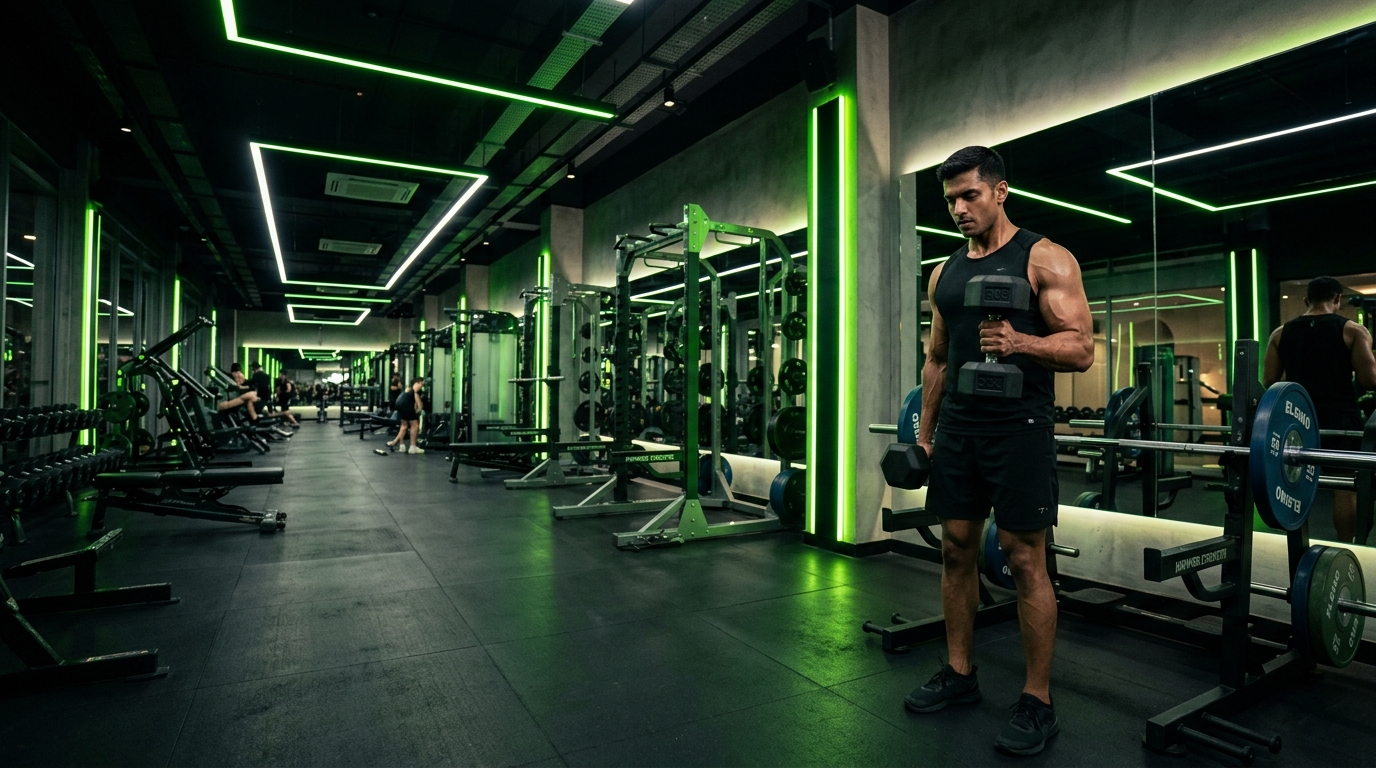
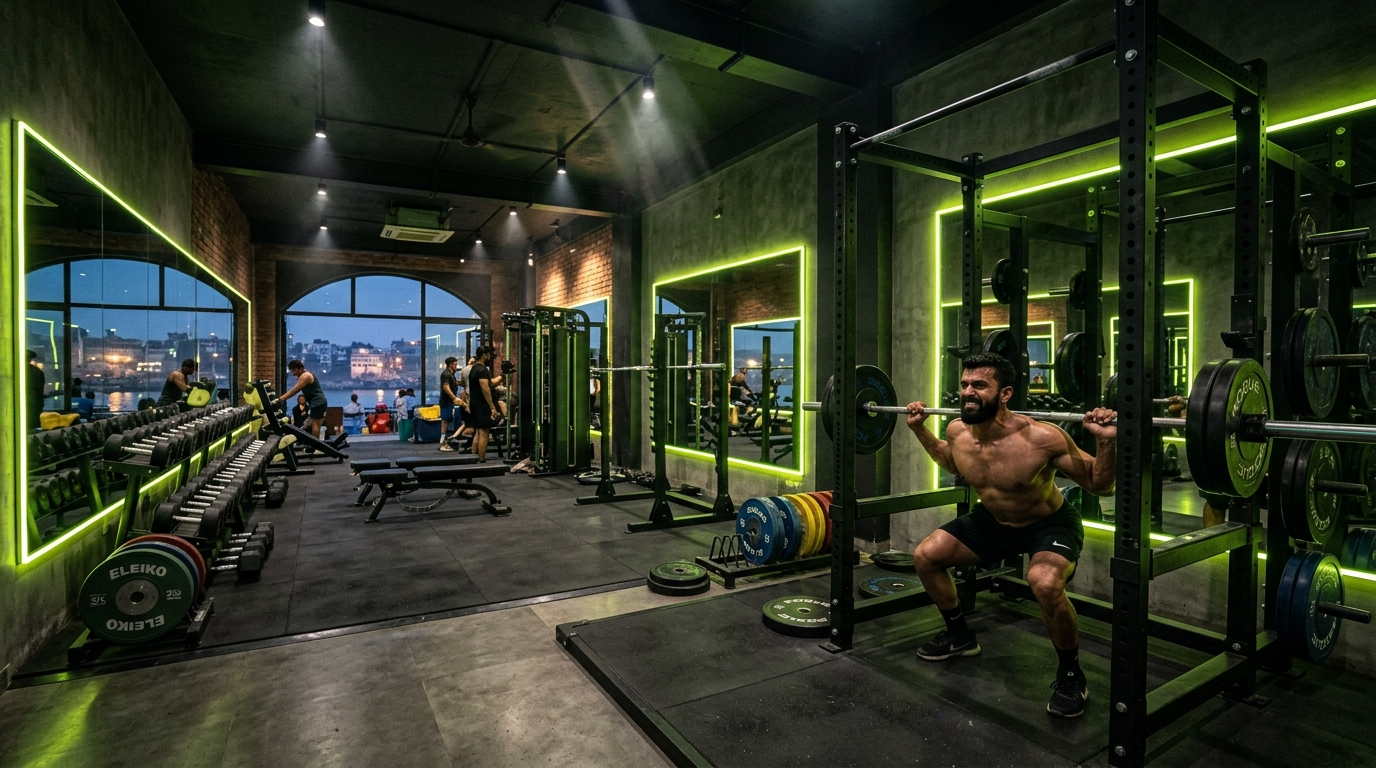
feat: update hero background and add dedicated cardio, sprint turf, and ambiance gallery images

diff --git a/gallery.html b/gallery.html
@@ -112,7 +112,7 @@
 
         <!-- Photo 2: Cardio -->
         <div class="gallery-item" data-category="cardio">
-          <img src="images/hero_gym.jpg" alt="Cardio line with commercial treadmills overlooking Varanasi" loading="lazy">
+          <img src="images/cardio_suite.jpg" alt="Cardio suite with shock-absorbent commercial treadmills and rowing machines" loading="lazy">
           <div class="gallery-item-overlay">
             <span class="gallery-item-tag">Cardio Suite</span>
             <div class="gallery-item-title">Shock-Absorbent Treadmills &amp; Rowers</div>
@@ -121,7 +121,7 @@
 
         <!-- Photo 3: Functional -->
         <div class="gallery-item" data-category="functional">
-          <img src="images/hero_gym.jpg" alt="Functional training sprint turf and battle ropes" loading="lazy">
+          <img src="images/sprint_turf.jpg" alt="Functional training sprint turf track and heavy weighted sled push" loading="lazy">
           <div class="gallery-item-overlay">
             <span class="gallery-item-tag">Functional Zone</span>
             <div class="gallery-item-title">Sprint Turf &amp; Heavy Sled Track</div>
@@ -166,7 +166,7 @@
 
         <!-- Photo 8: Cardio -->
         <div class="gallery-item" data-category="cardio">
-          <img src="images/hero_gym.jpg" alt="Spacious gym floor layout and architectural lighting" loading="lazy">
+          <img src="images/gym_ambiance.jpg" alt="Spacious gym floor layout with commercial HVAC air purification and modern lighting" loading="lazy">
           <div class="gallery-item-overlay">
             <span class="gallery-item-tag">Ambiance &amp; Clean Air</span>
             <div class="gallery-item-title">Commercial HVAC Air Purification &amp; Modern Lighting</div>

diff --git a/css/style.css b/css/style.css
@@ -457,8 +457,8 @@ p:last-child {
   width: 100%;
   height: 100%;
   object-fit: cover;
-  object-position: center 25%;
-  filter: brightness(0.75) contrast(1.1);
+  object-position: center;
+  filter: brightness(0.92) contrast(1.05);
 }
 
 .hero-overlay {
@@ -468,9 +468,9 @@ p:last-child {
   width: 100%;
   height: 100%;
   background: 
-    radial-gradient(circle at 80% 20%, rgba(184, 255, 61, 0.14) 0%, transparent 60%),
-    linear-gradient(180deg, rgba(17, 17, 17, 0.35) 0%, rgba(17, 17, 17, 0.15) 50%, rgba(17, 17, 17, 0.88) 100%),
-    linear-gradient(90deg, rgba(17, 17, 17, 0.72) 0%, rgba(17, 17, 17, 0.42) 50%, rgba(17, 17, 17, 0.30) 100%);
+    radial-gradient(circle at 75% 25%, rgba(184, 255, 61, 0.12) 0%, transparent 60%),
+    linear-gradient(180deg, rgba(17, 17, 17, 0.35) 0%, rgba(17, 17, 17, 0.15) 45%, rgba(17, 17, 17, 0.90) 100%),
+    linear-gradient(90deg, rgba(17, 17, 17, 0.62) 0%, rgba(17, 17, 17, 0.32) 52%, rgba(17, 17, 17, 0.12) 100%);
   z-index: 2;
 }
 

diff --git a/index.html b/index.html
@@ -115,8 +115,8 @@
     </div>
 
     <div class="container hero-content">
-      <div class="eyebrow" style="border: none; background: transparent; padding-left: 0; font-size: 0.85rem; letter-spacing: 0.12em; color: #ffffff;">
-        PREMIUM GYM &amp; FITNESS CENTER IN VARANASI
+      <div class="eyebrow">
+        PREMIUM EXPERIENCE AT A VARANASI-FRIENDLY PRICE
       </div>
       <h1 class="hero-title">
         TRAIN STRONG.<br>
@@ -128,7 +128,7 @@
 
       <div class="hero-cta-group">
         <button type="button" class="btn btn-primary btn-lg" data-open-modal="tour" id="heroTourCta">
-          BOOK A FREE GYM TOUR
+          BOOK A FREE GYM TOUR &rarr;
         </button>
 
         <a href="#membership" class="btn btn-secondary btn-lg" id="heroMembershipCta">

diff --git a/programs.html b/programs.html
@@ -161,7 +161,7 @@
           <button type="button" class="btn btn-secondary" data-open-modal="tour" data-service="Functional Training">FREE TOUR BOOK KAREIN</button>
         </div>
         <div class="highlight-image-wrapper">
-          <img src="images/hero_gym.jpg" alt="Indoor sprint turf and functional athletic training" loading="lazy">
+          <img src="images/sprint_turf.jpg" alt="Indoor sprint turf track and heavy sled athletic training" loading="lazy">
         </div>
       </div>
     </div>
